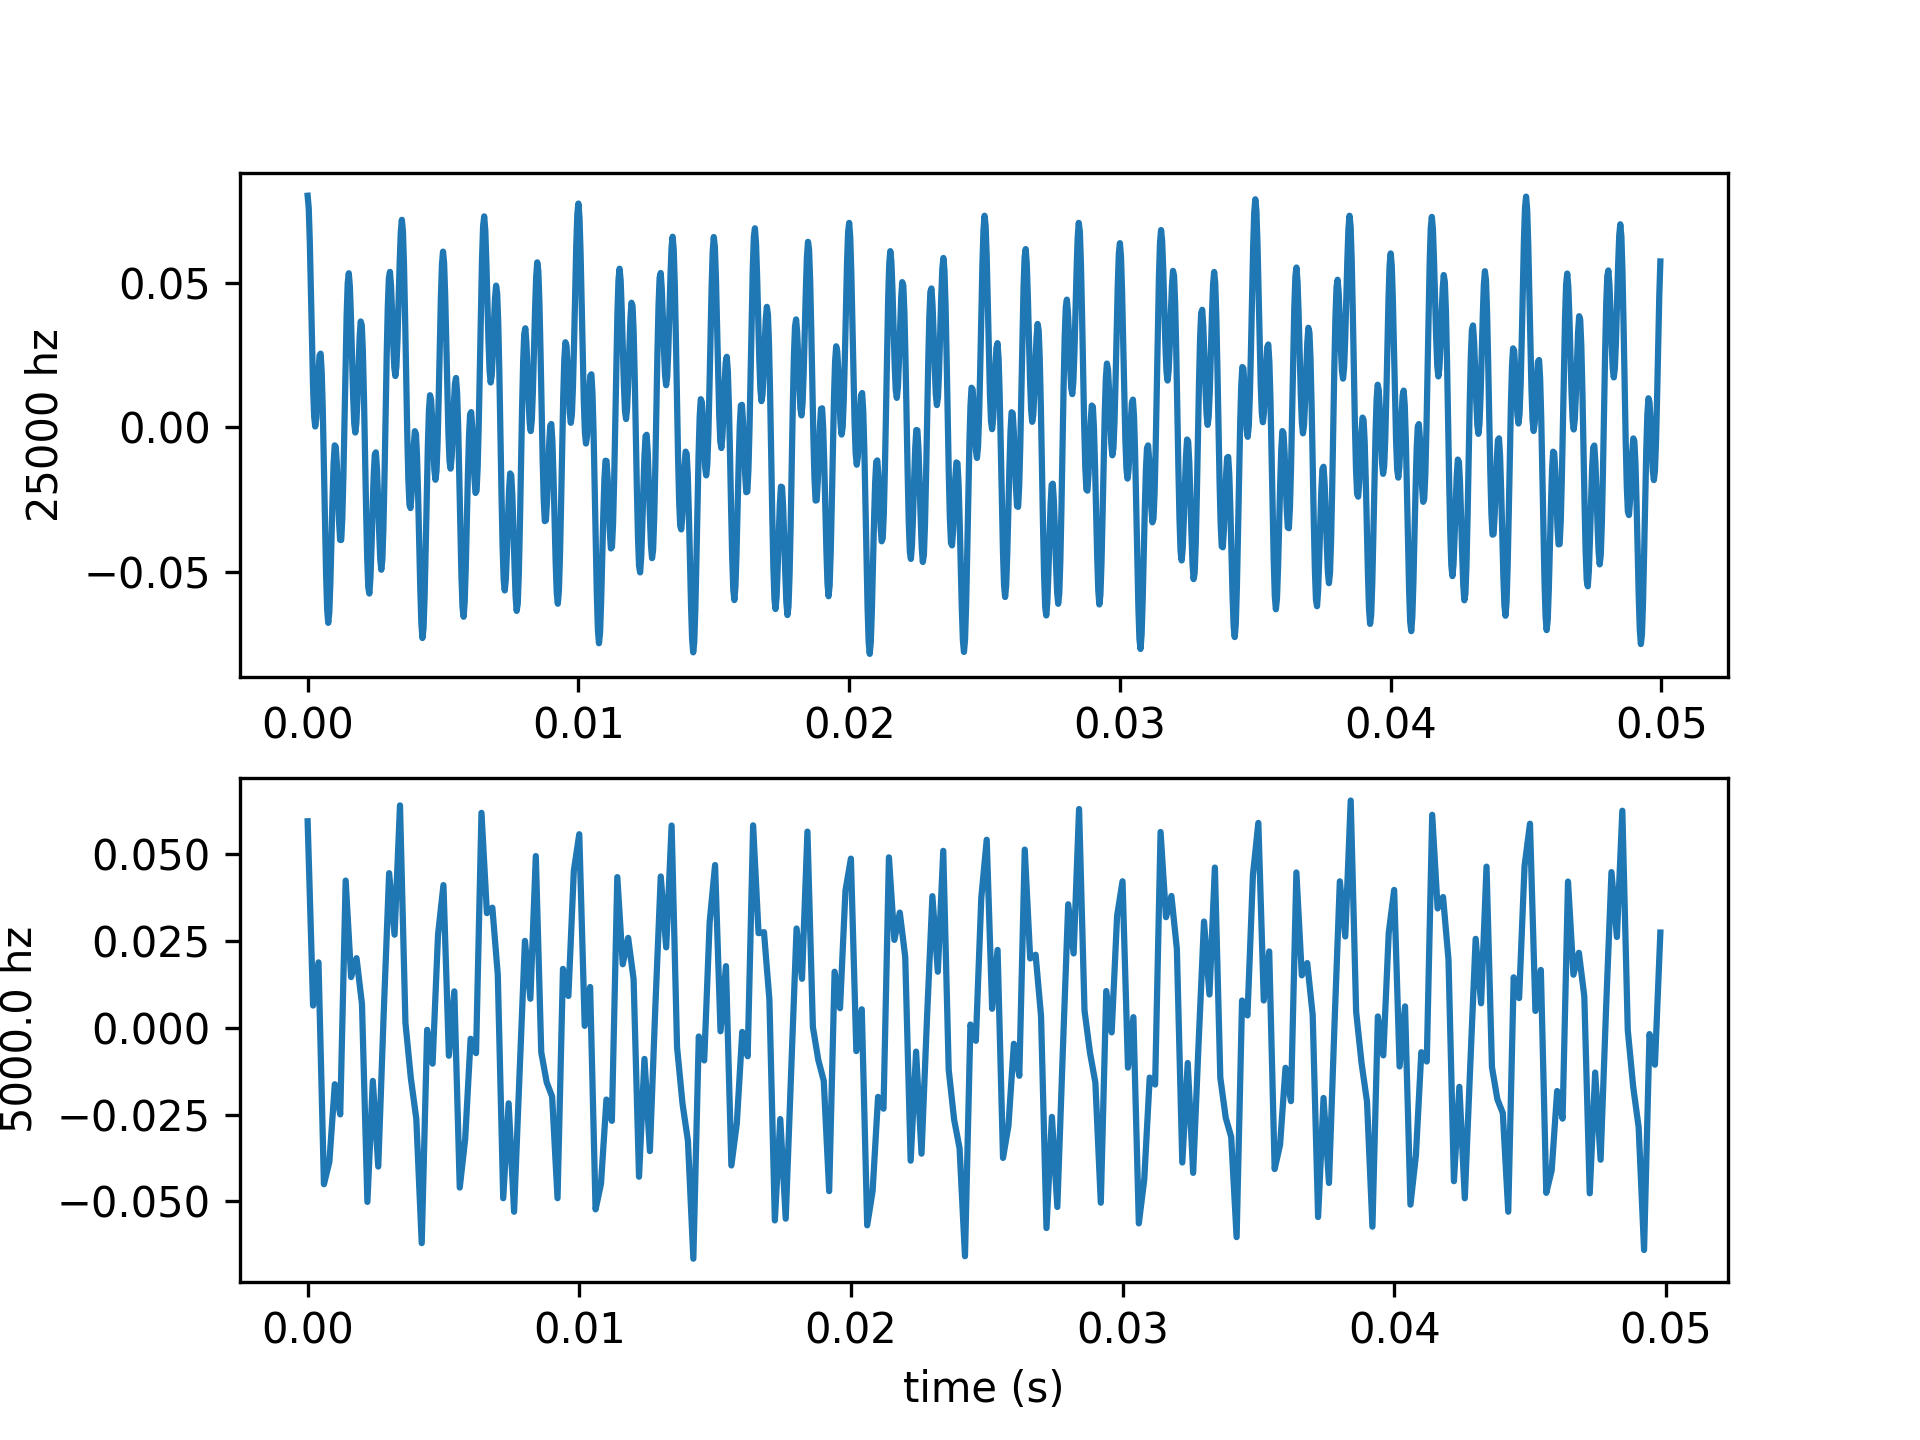
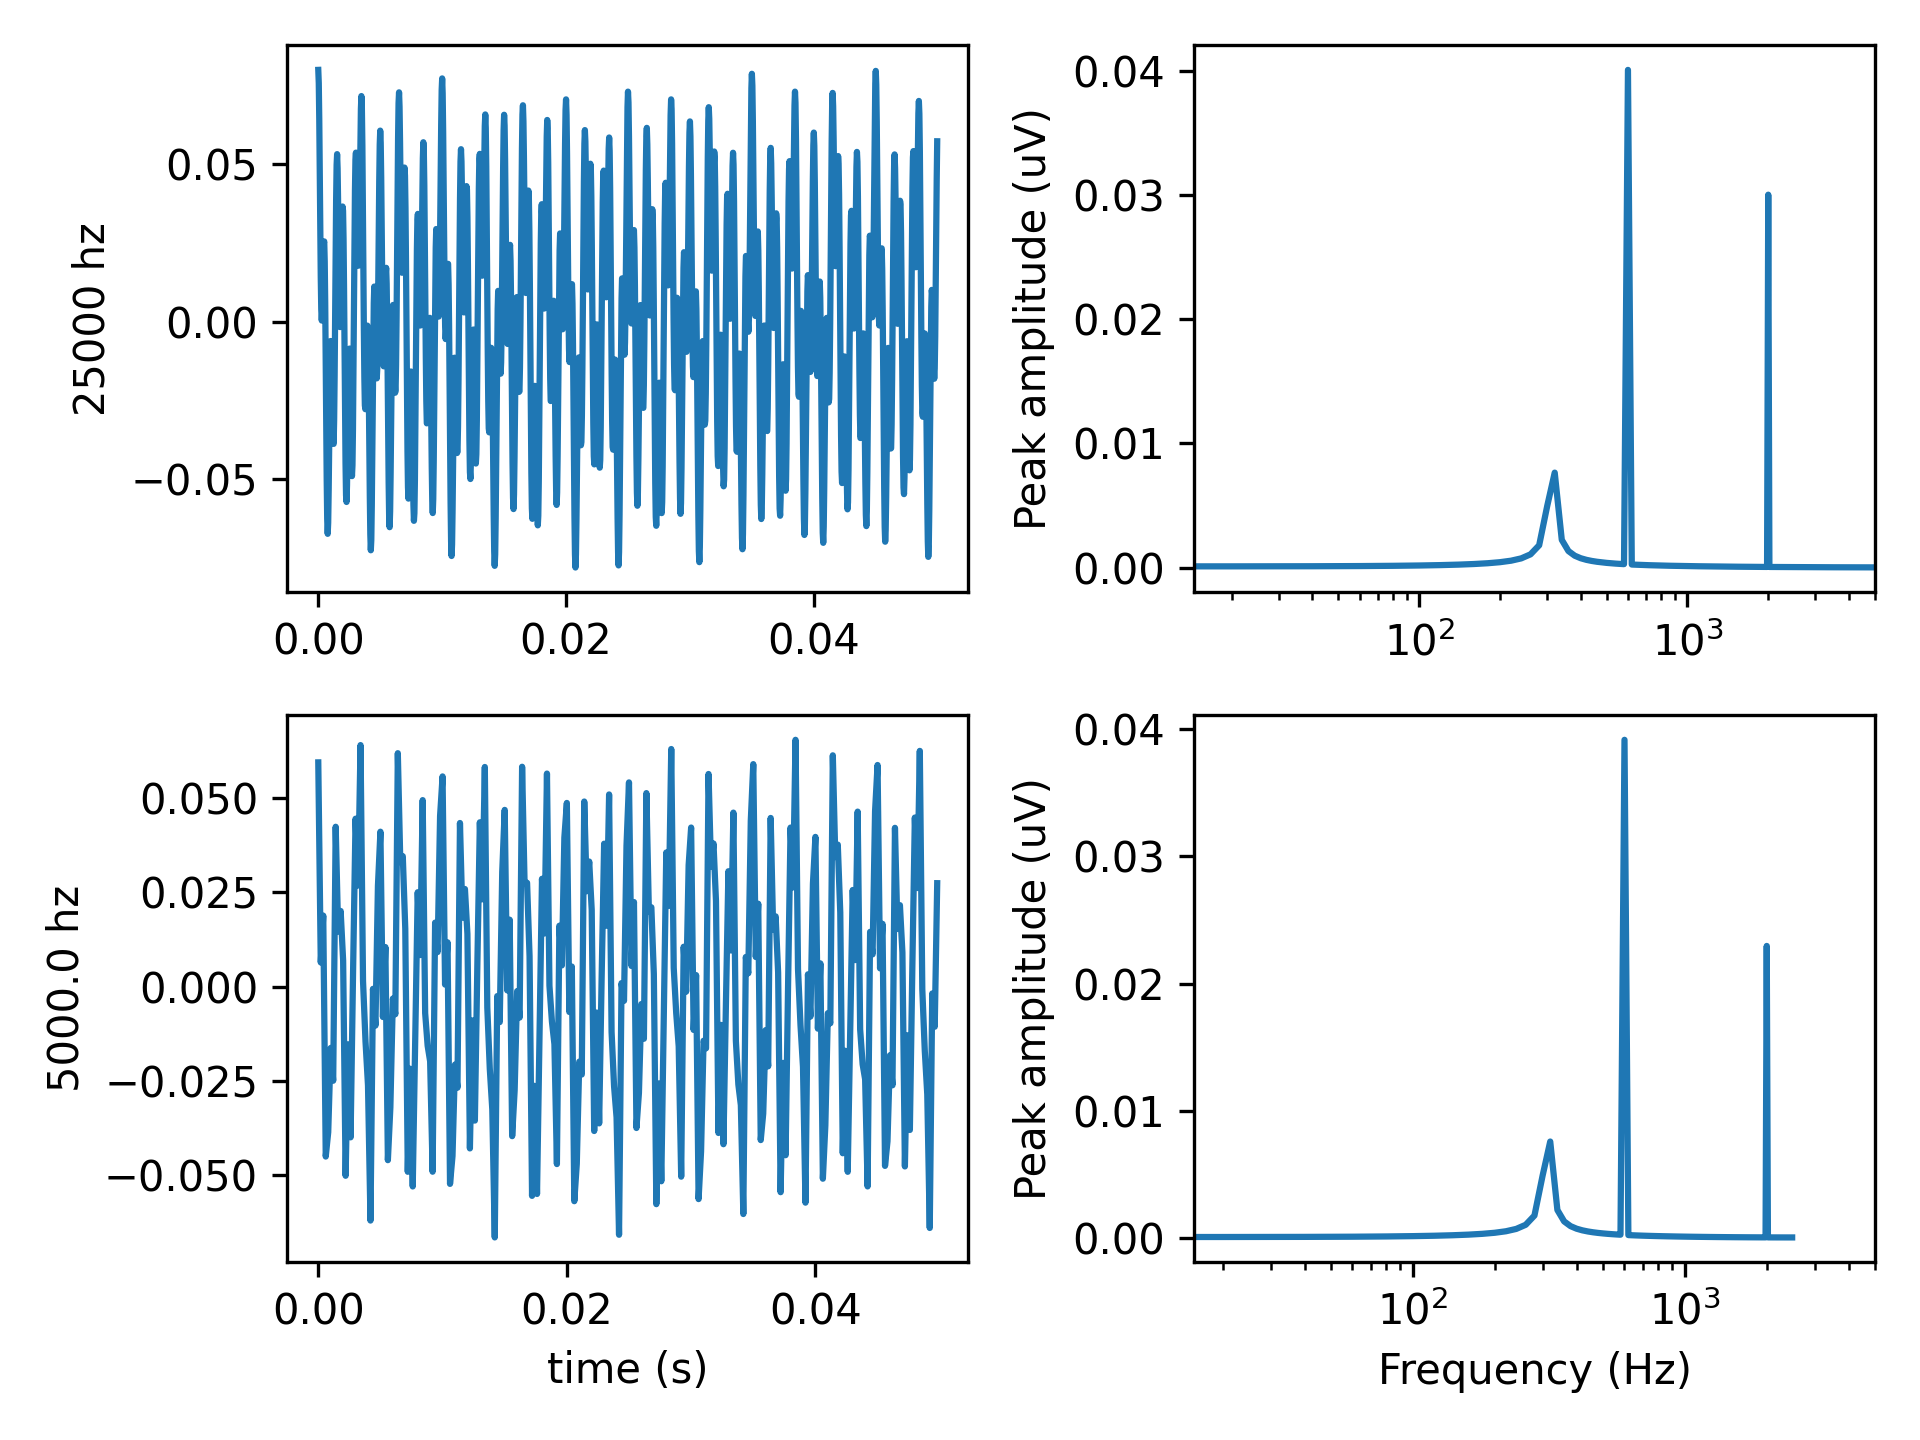
add spectrogram

Changed region(s): [[0.0, 0.0312, 1.0, 0.9688], [0.4688, 0.9375, 0.5625, 0.9688], [0.5625, 0.0312, 0.625, 0.0625]]

diff --git a/tests/test_precondition.py b/tests/test_precondition.py
@@ -1,5 +1,6 @@
 # we are generating noisy test data using sine and cosine functions with multiple frequencies
 import unittest
+from aopy import visualization
 from aopy.visualization import *
 import matplotlib.pyplot as plt
 from aopy import precondition
@@ -254,13 +255,19 @@ class FilterTests(unittest.TestCase):
 
         fs_ds = self.fs/5
         x_ds = precondition.downsample(self.x, self.fs, fs_ds)
-        fig, ax = plt.subplots(2,1)
-        ax[0].plot(self.t, self.x)
-        ax[0].set_ylabel(f"{self.fs} hz")
+        fig, ax = plt.subplots(2,2)
+        ax[0,0].plot(self.t, self.x)
+        ax[0,0].set_ylabel(f"{self.fs} hz")
         t_ds = np.arange(len(x_ds))/fs_ds
-        ax[1].plot(t_ds, x_ds)
-        ax[1].set_ylabel(f"{fs_ds} hz")
-        ax[1].set_xlabel("time (s)")
+        ax[1,0].plot(t_ds, x_ds)
+        ax[1,0].set_ylabel(f"{fs_ds} hz")
+        ax[1,0].set_xlabel("time (s)")
+        visualization.plot_freq_domain_amplitude(1e-6*self.x, self.fs, ax=ax[0,1])
+        ax[0,1].set_xlim(0,5000)
+        ax[0,1].set_xlabel('')
+        visualization.plot_freq_domain_amplitude(1e-6*x_ds, fs_ds, ax=ax[1,1])
+        ax[1,1].set_xlim(0,5000)
+        plt.tight_layout()
         filename = 'downsample.png'
         savefig(docs_dir, filename)
 
